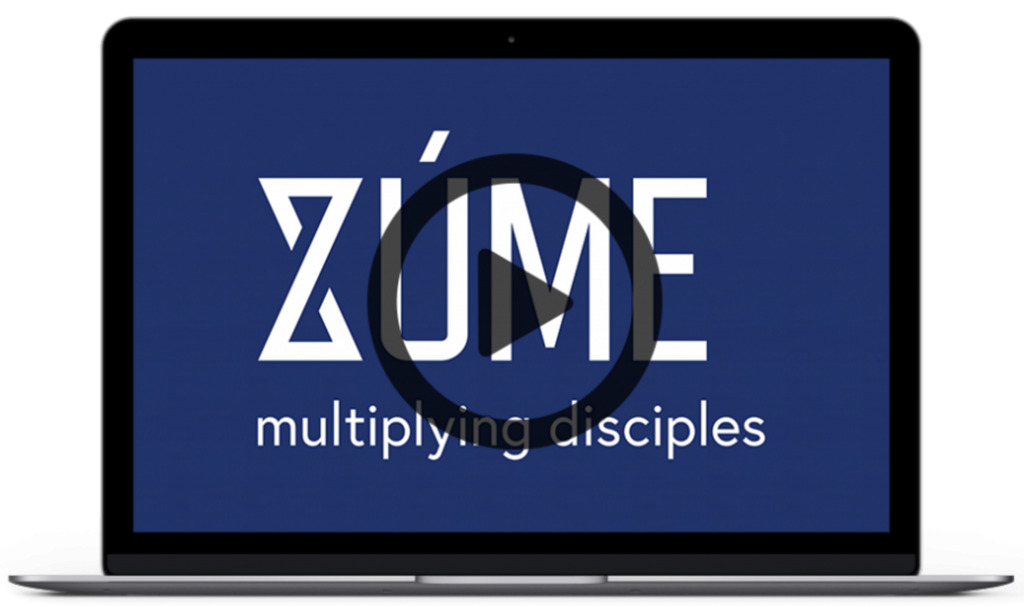
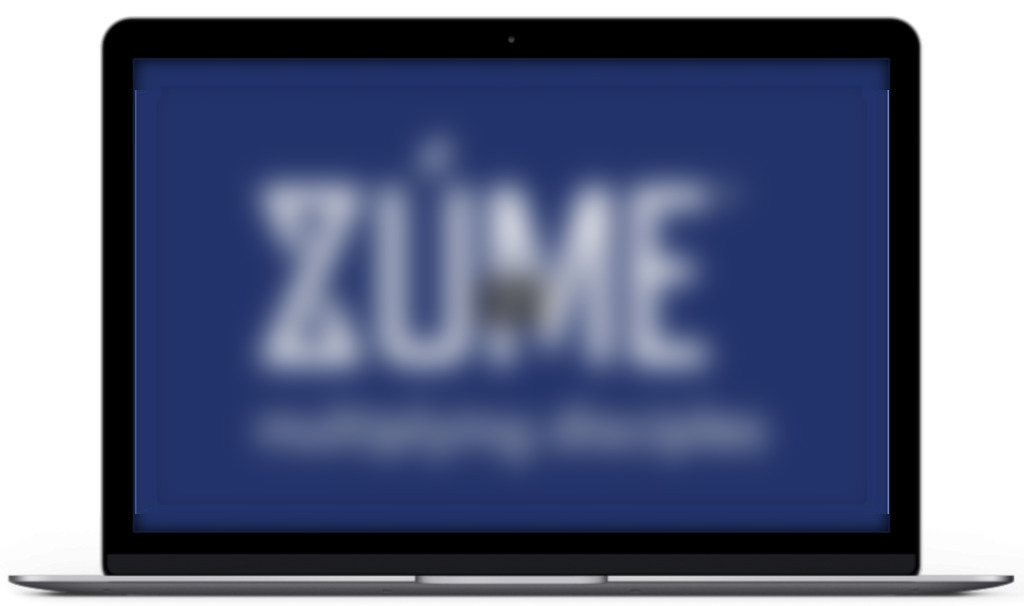
Make loading screen prettier on home page

Changed region(s): [[0.2188, 0.2079, 0.75, 0.7723], [0.125, 0.8317, 0.875, 0.8911], [0.125, 0.0891, 0.875, 0.1485]]

diff --git a/template-zume-home.php b/template-zume-home.php
@@ -30,7 +30,7 @@ Template Name: Full Width Home
                     }
 
                     .laptop__screen {
-                        background-color: #22336B;
+                        /* background-color: #22336B; */
                         position: absolute;
                         <?php /* These values match the laptop screen bezel in the image of the parent */ ?>
                         top: <?php echo (56 * 100 / 606) ?>%;
